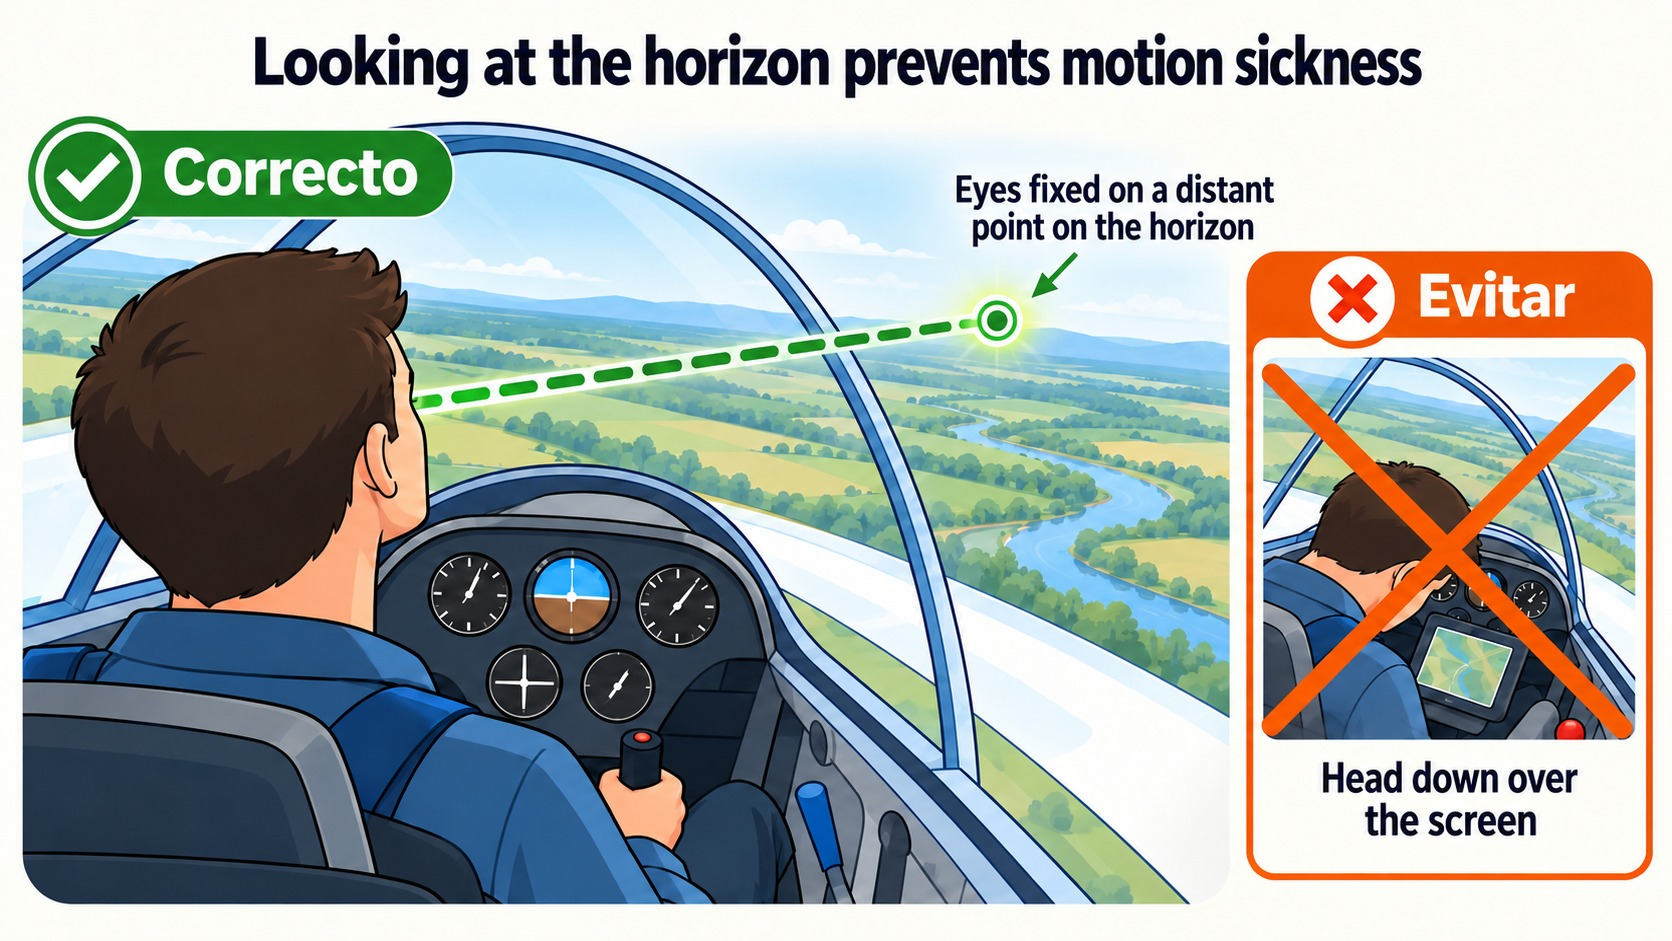
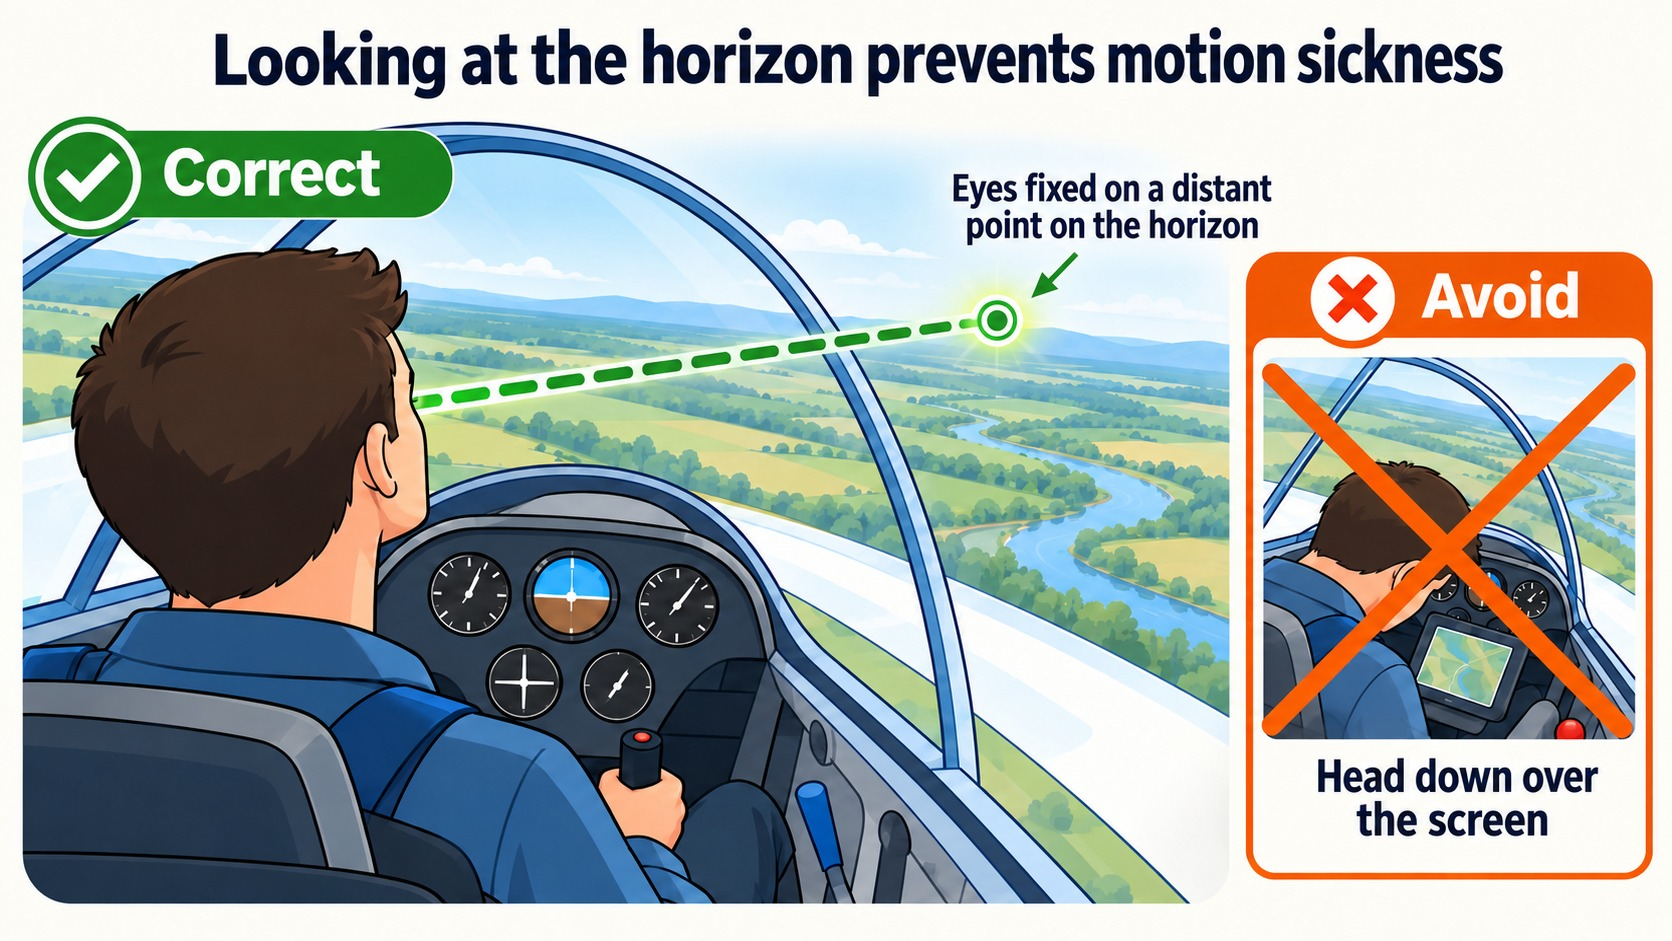
fix(02): traducir del todo la curva de estrés y la cinetosis inglesas
Las dos figuras inglesas conservaban rótulos en español («Máximo
rendimiento», «Correcto» y «Evitar») y llevaban la marca «IN REVIEW» con
la nota (FIX: …). Se regeneran con los rótulos en inglés y se quitan la
clase .corregir y la nota del pie: ya no queda ninguna figura marcada en
el libro 02.

Las fichas de prompts/ y el seguimiento de la auditoría lo anotan. Sube
la versión: 02 español a 1.0-rc.16 (sólo fichas) y 02 inglés a 0.8.3.

Closes #60

diff --git a/recursos/auditorias/seguimiento-libro-02.md b/recursos/auditorias/seguimiento-libro-02.md
@@ -152,7 +152,7 @@ clase y la nota, y se anota aquí.
 | cap01 | `02-cap01-queso-suizo` | COH-03 | fase 3 | 9 oct 2026, issue #60; inglés, 20 oct 2026 |
 | cap01 | `02-cap01-cadena-error` | COH-04 | fase 3 | 9 oct 2026, issue #60; inglés, 20 oct 2026 |
 | cap02 | `02-cap02-imsafe` | COH-01 | fase 2 | 9 oct 2026, issue #60; inglés, 20 oct 2026 |
-| cap02 | `02-cap02-curva-estres` | TEC-09 | fase 3 | 9 oct 2026, issue #60; inglés pendiente (un rótulo en español) |
+| cap02 | `02-cap02-curva-estres` | TEC-09 | fase 3 | 9 oct 2026, issue #60; inglés, 20 nov 2026 |
 | cap03 | `02-cap03-decide` | TEC-03 | fase 2 | 9 oct 2026, issue #60; inglés, 20 oct 2026 |
 | cap03 | `02-cap03-vision-tunel` | PED-04 | fase 5 | 9 oct 2026, issue #60; inglés, 20 oct 2026 |
 | cap04 | `02-cap04-hipoxia-tiempo-conciencia` | COH-02 | fase 2 | 9 oct 2026, issue #60; inglés, 20 oct 2026 |
@@ -186,8 +186,9 @@ la figura anterior. La ilusión vestibular no cambia: el autor la da por correct
 pasa a `final`.
 
 El 20 de octubre de 2026 se rehacen las quince figuras inglesas: son las españolas con los textos
-traducidos. La curva de estrés y la cinetosis conservan algún rótulo en español y llevan la marca
-*(FIX: …)* hasta que se corrijan.
+traducidos. La curva de estrés y la cinetosis conservaron algún rótulo en español y llevaron la
+marca *(FIX: …)* hasta el 20 de noviembre de 2026, cuando se regeneran con esos rótulos en inglés.
+Con ellas no queda ninguna figura marcada en el libro 02, en ninguna de las dos ediciones.
 
 ## Preguntas abiertas
 

diff --git a/02-factores-humanos/prompts/02-cap02-curva-estres.prompt.md b/02-factores-humanos/prompts/02-cap02-curva-estres.prompt.md
@@ -29,8 +29,8 @@ sus efectos», que separa este marco del síndrome general de adaptación de Sel
 
 **Estado.** Sustituida el 9 de octubre de 2026 (issue #60) por una versión generada con el encargo
 de esta ficha, no dibujada por código; en la edición española se quitan la clase `.corregir` y la
-nota del pie. Vuelve a `borrador`: falta la revisión técnica de la figura nueva y su versión
-inglesa, que sigue siendo la anterior.
+nota del pie. Vuelve a `borrador`: falta la revisión técnica de la figura nueva. La versión
+inglesa está traducida del todo desde el 20 de noviembre de 2026.
 
 ## Procedencia
 
@@ -79,5 +79,6 @@ lean a 9 pt al imprimirse.
 
 `en/02-human-performance/imagenes/` lleva desde el 20 de octubre de 2026 la figura española con los
 textos traducidos al inglés, editada con ChatGPT a partir de ella (issue #60); la traducción sigue
-`en/terminologia.yml`. Aún queda en español «Máximo rendimiento»: su pie inglés conserva la marca
-*(FIX: …)* hasta que se traduzca.
+`en/terminologia.yml`. Quedó en español «Máximo rendimiento»; el 20 de noviembre de 2026 se
+regenera con ChatGPT pidiendo sólo ese cambio («Peak performance») y se quitan la clase
+`.corregir` y la marca *(FIX: …)* del pie inglés.

diff --git a/02-factores-humanos/prompts/02-cap02-cinetosis-fijacion.prompt.md b/02-factores-humanos/prompts/02-cap02-cinetosis-fijacion.prompt.md
@@ -26,8 +26,8 @@ master_editable: ""
 `cap02-fisiologia-aeronautica-basica-y-mantenimiento-de-salud.qmd`.
 
 **Estado.** Rehecha el 9 de octubre de 2026 (issue #60) con el encargo de abajo, sin rótulos en las
-esferas del panel. Vuelve a `borrador`: falta la revisión técnica de la figura nueva y su versión
-inglesa, que sigue siendo la anterior.
+esferas del panel. Vuelve a `borrador`: falta la revisión técnica de la figura nueva. La versión
+inglesa está traducida del todo desde el 20 de noviembre de 2026.
 
 ## Procedencia
 
@@ -69,5 +69,6 @@ lean a 9 pt al imprimirse.
 
 `en/02-human-performance/imagenes/` lleva desde el 20 de octubre de 2026 la figura española con los
 textos traducidos al inglés, editada con ChatGPT a partir de ella (issue #60); la traducción sigue
-`en/terminologia.yml`. Aún quedan en español «Correcto» y «Evitar»: su pie inglés conserva la marca
-*(FIX: …)* hasta que se traduzcan.
+`en/terminologia.yml`. Quedaron en español «Correcto» y «Evitar»; el 20 de noviembre de 2026 se
+regenera con ChatGPT pidiendo sólo ese cambio («Correct» y «Avoid») y se quitan la clase
+`.corregir` y la marca *(FIX: …)* del pie inglés.

diff --git a/README.md b/README.md
@@ -24,7 +24,7 @@ Están escritos en **Quarto Markdown (.qmd)** y se compilan a **PDF** (Typst), *
 | # | Libro | Asignatura | Versión | Estado |
 | --- | --- | --- | --- | --- |
 | 1 | **`01-derecho-aereo-atc`** | Derecho Aéreo y Procedimientos de Control de Tránsito Aéreo (ATC) | `1.0-rc.16` | 🔵 Candidato de versión |
-| 2 | **`02-factores-humanos`** | Factores Humanos | `1.0-rc.15` | 🔵 Candidato de versión |
+| 2 | **`02-factores-humanos`** | Factores Humanos | `1.0-rc.16` | 🔵 Candidato de versión |
 | 3 | **`03-meteorologia`** | Meteorología | `1.0-rc.18` | 🔵 Candidato de versión |
 | 4 | **`04-comunicaciones`** | Comunicaciones | `1.0-rc.17` | 🔵 Candidato de versión |
 | 5 | **`05-principios-vuelo`** | Principios de Vuelo | `1.0-rc.10` | 🔵 Candidato de versión |

diff --git a/en/02-human-performance/CHANGELOG-02-en.md b/en/02-human-performance/CHANGELOG-02-en.md
@@ -13,6 +13,17 @@ was translated from (`origen-commit`). Terminology follows `en/terminologia.yml`
 
 ## [In progress]
 
+## [0.8.3] — 20 November 2026
+
+**What to reread:** **cap02**, the Yerkes-Dodson curve and the motion sickness figure.
+
+### Fixed
+
+* **cap02, figures** — the Yerkes-Dodson curve and the motion sickness figure are translated in
+  full: “Máximo rendimiento” becomes “Peak performance”, and “Correcto” and “Evitar” become
+  “Correct” and “Avoid”. Both lose the “IN REVIEW” mark and the *(FIX: …)* note, so no figure of
+  the book is marked any more. Issue #60.
+
 ## [0.8.2] — 18 November 2026
 
 **What to reread:** the **figures of cap01 to cap04** and their captions.

diff --git a/02-factores-humanos/CHANGELOG-02.md b/02-factores-humanos/CHANGELOG-02.md
@@ -16,6 +16,17 @@ rompe la compilación.
 
 ## [En curso]
 
+## [1.0-rc.16] — 20 de noviembre de 2026
+
+**Qué releer:** nada. El contenido no cambia respecto a la `1.0-rc.15`: sólo las fichas de dos
+figuras, por la edición inglesa.
+
+### Maqueta y producción
+
+* **Fichas de las figuras** — las de la curva de Yerkes-Dodson y la cinetosis anotan que su versión
+  inglesa ya está traducida del todo (20 de noviembre de 2026). La edición española no cambia.
+  Issue #60.
+
 ## [1.0-rc.15] — 18 de noviembre de 2026
 
 **Qué releer:** las **figuras de cap01 a cap04**, sustituidas o rehechas tras la auditoría, y sus pies.
